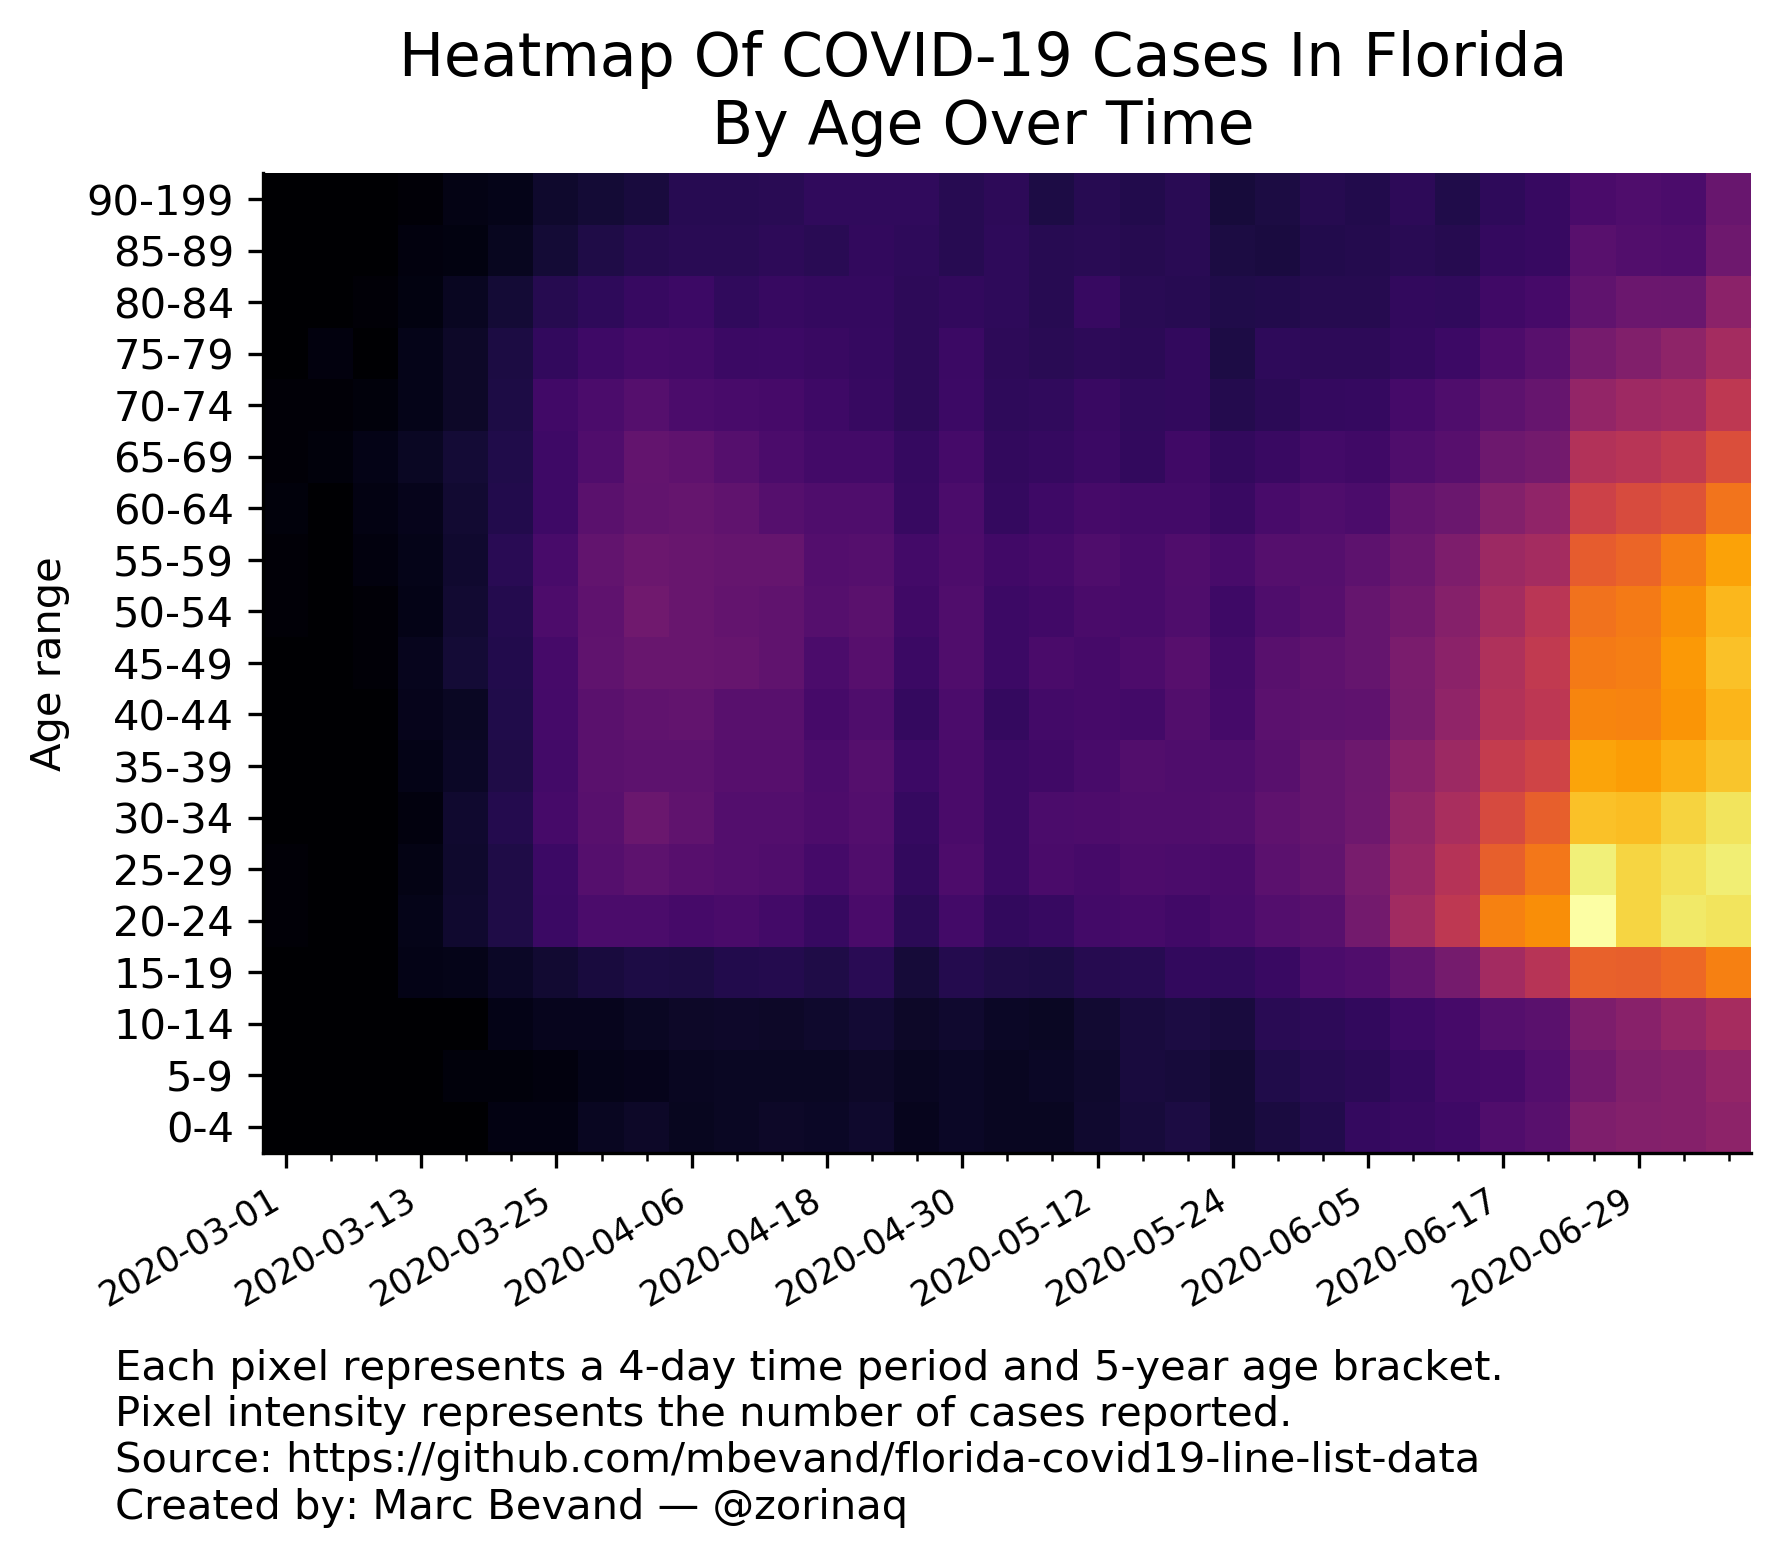
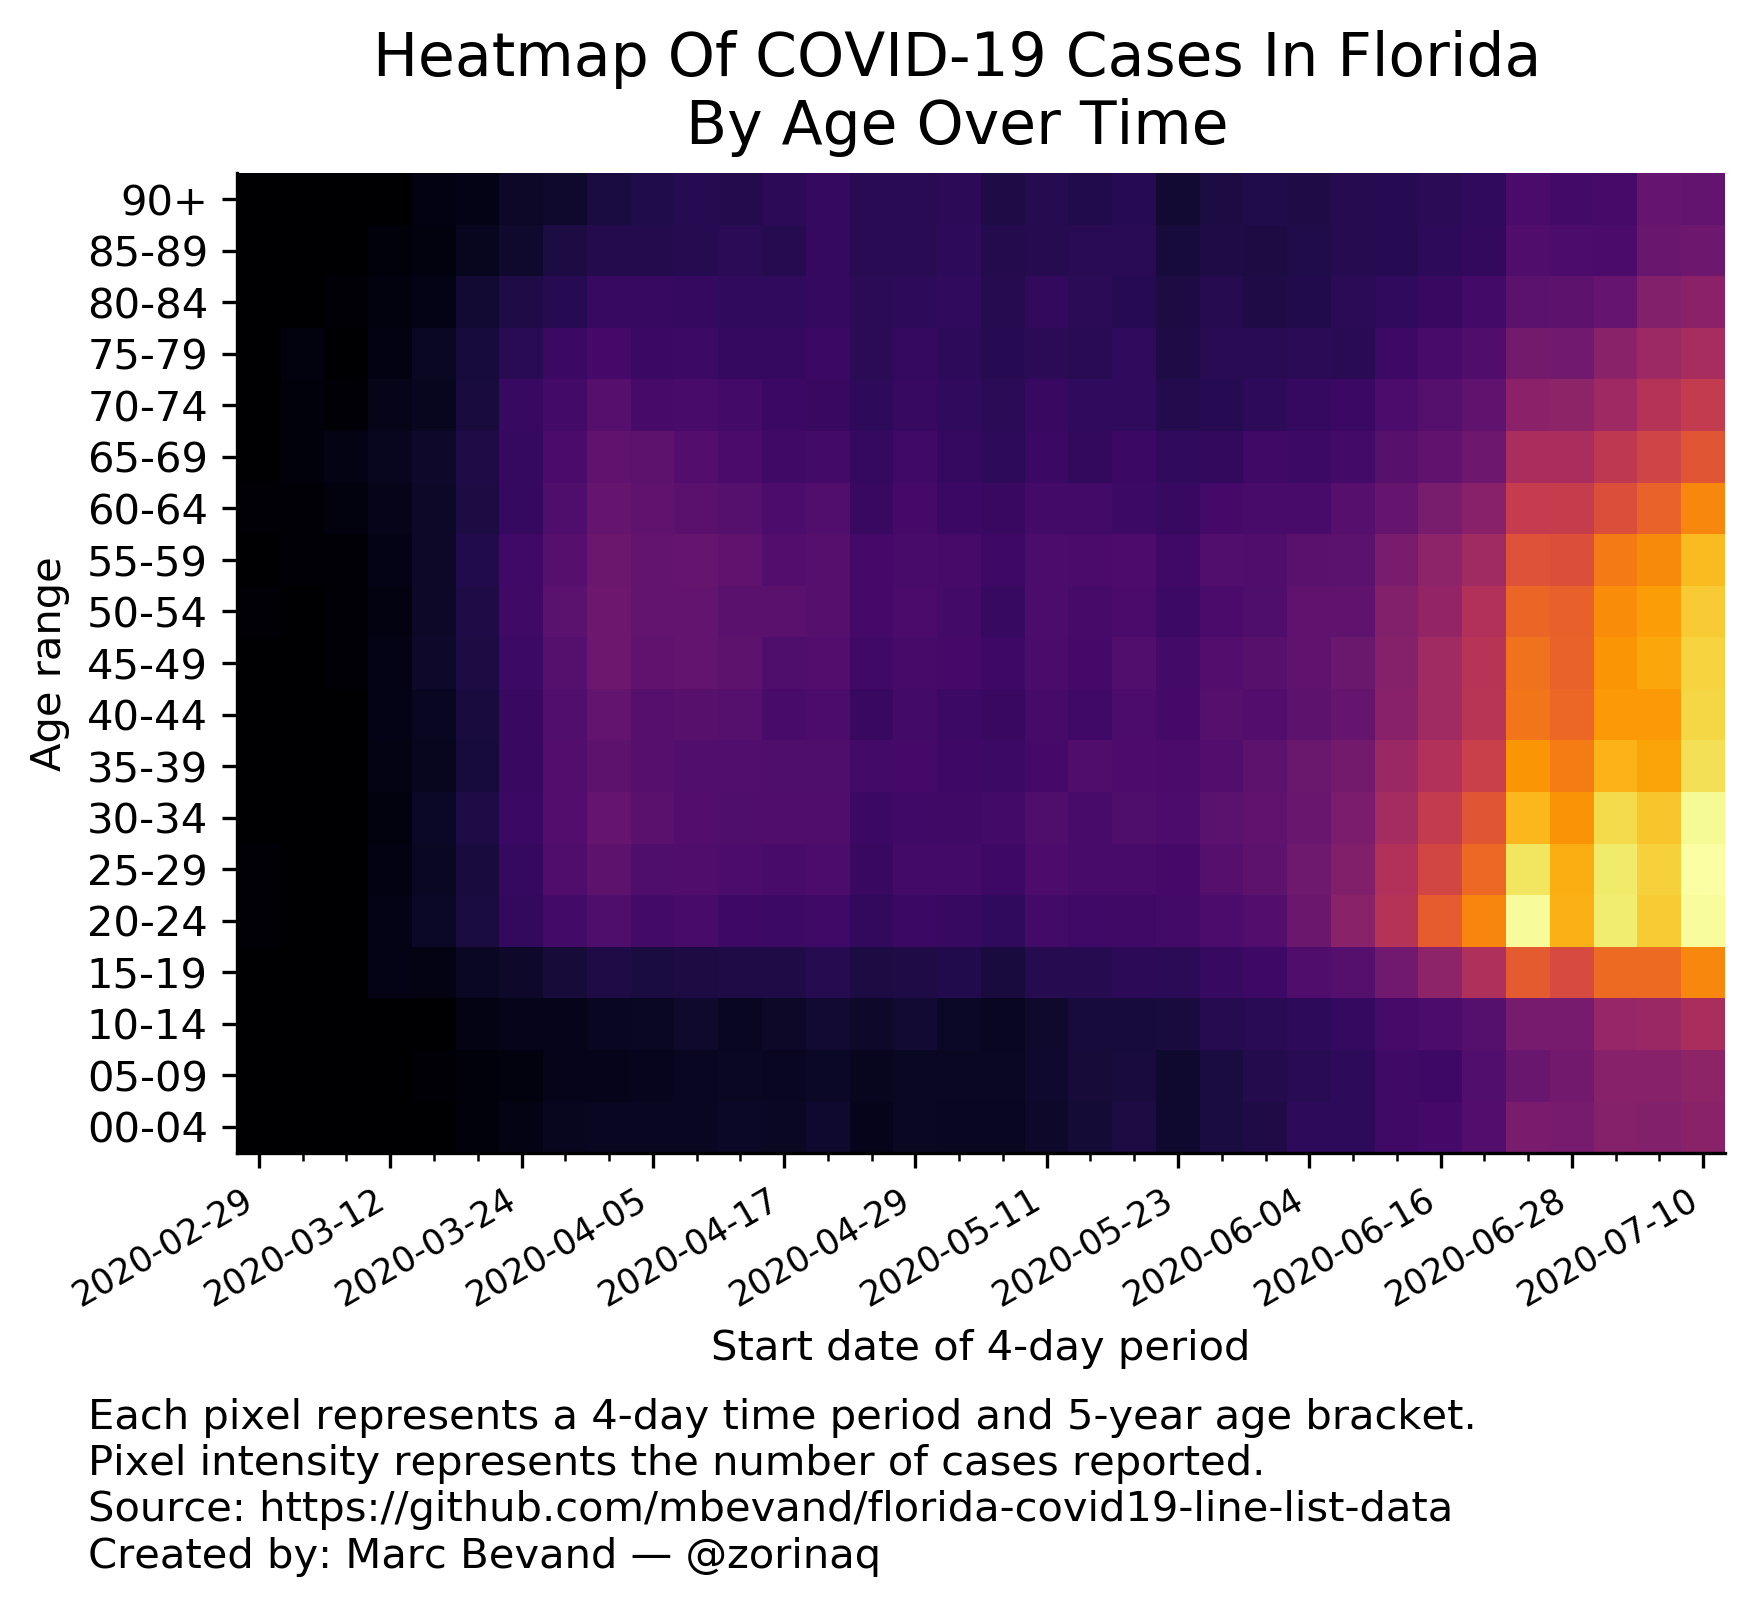
update heatmap

diff --git a/heatmap.py b/heatmap.py
@@ -3,6 +3,7 @@
 # Analyzes Florida COVID-19 line list data by age bracket over time.
 
 import sys
+import math
 import os
 import datetime
 import numpy as np
@@ -14,10 +15,15 @@ from matplotlib import rcParams
 # This CSV is found at https://open-fdoh.hub.arcgis.com/datasets/florida-covid19-case-line-data (click Download → Spreadsheet)
 csv_url = "https://opendata.arcgis.com/datasets/37abda537d17458bae6677b8ab75fcb9_0.csv"
 buckets_days = 4
-buckets_ages = [(0, 4), (5, 9), (10, 14), (15, 19), (20, 24), (25, 29), (30, 34), (35, 39), (40, 44), (45, 49), (50, 54), (55, 59), (60, 64), (65, 69), (70, 74), (75, 79), (80, 84), (85, 89), (90, 199), ]
-#buckets_ages = [(0, 9), (10, 19), (20, 29), (30, 39), (40, 49), (50, 59), (60, 69), (70, 79), (80, 89), (90, 199), ]
-#buckets_ages = [(i, i) for i in range(100)] + [(100,199)]
+buckets_ages = [(0, 4), (5, 9), (10, 14), (15, 19), (20, 24), (25, 29), (30, 34), (35, 39), (40, 44), (45, 49), (50, 54), (55, 59), (60, 64), (65, 69), (70, 74), (75, 79), (80, 84), (85, 89), (90, math.inf), ]
+#buckets_ages = [(0, 9), (10, 19), (20, 29), (30, 39), (40, 49), (50, 59), (60, 69), (70, 79), (80, 89), (90, math.inf), ]
+#buckets_ages = [(i, i) for i in range(100)] + [(100,math.inf)]
 datadir = 'data_fdoh'
+
+def bracket2str(bracket):
+    if bracket[1] == math.inf:
+        return f'{bracket[0]}+'
+    return f'{bracket[0]:02d}-{bracket[1]:02d}'
 
 def print_stats(cases_per_bracket, ages, df):
     print(
@@ -25,8 +31,8 @@ def print_stats(cases_per_bracket, ages, df):
         "bracket over time:"
     )
     print(f"{'period_start':>12},", end="")
-    for (low_age, high_age) in buckets_ages:
-        print(f" {low_age:02d}-{high_age:02d},", end="")
+    for bracket in buckets_ages:
+        print(f" {bracket2str(bracket)},", end="")
     print(" median_age")
     for period in sorted(cases_per_bracket):
         print(f"{str(period):>12},", end="")
@@ -49,8 +55,7 @@ def gen_heatmap(cases_per_bracket, filename, comment, sqrt):
             return periods[int(x)]
     def fmt_age(x, pos=None):
         if 0 <= x < len(buckets_ages):
-            (low_age, high_age) = buckets_ages[int(x)]
-            return f"{low_age}-{high_age}"
+            return bracket2str(buckets_ages[int(x)])
     a = np.zeros((len(buckets_ages), len(periods)))
     for (j, period) in enumerate(periods):
         for (i, bracket) in enumerate(buckets_ages):
@@ -67,11 +72,12 @@ def gen_heatmap(cases_per_bracket, filename, comment, sqrt):
     ax.spines['right'].set_visible(False)
     fig.autofmt_xdate()
     ax.set_ylabel("Age range")
+    ax.set_xlabel(f"Start date of {buckets_days}-day period")
     ax.tick_params(axis="x", which="both", labelsize="small")
     years = 1 + buckets_ages[0][1] - buckets_ages[0][0]
     ax.text(
         -0.1,
-        -0.2,
+        -0.25,
         f"Each pixel represents a {buckets_days}-day time period and {years}-year age bracket.\n"
         f"Pixel intensity represents the {comment}.\n"
         "Source: https://github.com/mbevand/florida-covid19-line-list-data\n"

diff --git a/README.md b/README.md
@@ -232,43 +232,44 @@ bracket, and also produces a numerical summary of age trends over time:
 
 ```
 $ ./heatmap.py
-Opening data_fdoh/2020-07-11-11-04-49.csv
+Opening data_fdoh/2020-07-14-14-09-16.csv
 Number of COVID-19 cases per 4-day time period in Florida by age bracket over time:
-period_start, 00-04, 05-09, 10-14, 15-19, 20-24, 25-29, 30-34, 35-39, 40-44, 45-49, 50-54, 55-59, 60-64, 65-69, 70-74, 75-79, 80-84, 85-89, 90-199, median_age
-  2020-03-01,     0,     0,     0,     0,     1,     1,     0,     0,     0,     0,     1,     1,     2,     1,     1,     0,     0,     0,     0,  61.0
-  2020-03-05,     0,     0,     0,     0,     0,     0,     0,     0,     0,     0,     0,     0,     0,     2,     1,     3,     0,     0,     0,  73.0
-  2020-03-09,     0,     0,     0,     0,     0,     0,     0,     0,     0,     1,     1,     3,     5,     8,     2,     0,     1,     0,     0,  65.0
-  2020-03-13,     0,     0,     0,     8,     9,     7,     3,     8,    11,    12,     8,    10,    11,    19,    10,     9,     4,     3,     1,  55.0
-  2020-03-17,     0,     2,     0,    10,    33,    31,    32,    21,    20,    41,    35,    34,    37,    41,    25,    25,    16,     4,     7,  52.0
-  2020-03-21,     5,     2,     8,    21,    69,    69,    85,    71,    76,    81,    86,   100,    79,    73,    65,    60,    42,    15,     9,  51.0
-  2020-03-25,     5,     3,    12,    35,   157,   166,   211,   195,   205,   209,   243,   222,   176,   177,   185,   127,    90,    42,    30,  50.0
-  2020-03-29,    17,    10,    13,    53,   237,   290,   304,   314,   311,   352,   340,   361,   317,   262,   234,   172,   114,    71,    41,  50.0
-  2020-04-02,    23,    11,    19,    65,   236,   337,   413,   331,   348,   407,   455,   426,   367,   368,   289,   201,   146,    89,    53,  51.0
-  2020-04-06,    15,    17,    24,    60,   210,   293,   354,   337,   358,   406,   407,   403,   379,   342,   233,   193,   167,    98,    92,  51.0
-  2020-04-10,    20,    19,    28,    78,   230,   277,   275,   291,   304,   390,   373,   384,   350,   286,   215,   162,   125,   100,    96,  51.0
-  2020-04-14,    25,    19,    25,    82,   199,   263,   274,   293,   304,   353,   352,   379,   283,   233,   212,   170,   144,   110,    98,  50.0
-  2020-04-18,    21,    19,    29,    71,   146,   202,   245,   233,   214,   235,   287,   281,   254,   194,   173,   153,   133,    99,   124,  52.0
-  2020-04-22,    31,    25,    40,    99,   224,   261,   278,   287,   248,   297,   314,   290,   253,   194,   147,   138,   134,   126,   124,  49.0
-  2020-04-26,    13,    17,    25,    46,   105,   127,   140,   167,   132,   157,   180,   195,   148,   140,   113,   113,   108,   118,   122,  54.0
-  2020-04-30,    22,    22,    34,    86,   193,   242,   226,   228,   232,   257,   256,   246,   235,   202,   165,   161,   130,    95,    92,  50.0
-  2020-05-04,    18,    18,    21,    72,   131,   162,   158,   158,   136,   167,   165,   185,   133,   128,   117,   109,   114,   117,   111,  52.0
-  2020-05-08,    17,    22,    20,    68,   150,   229,   233,   180,   196,   226,   187,   207,   171,   139,   123,   101,    97,    97,    67,  48.0
-  2020-05-12,    32,    29,    35,    87,   194,   213,   244,   219,   209,   209,   229,   250,   207,   158,   154,   108,   146,   101,    97,  49.0
-  2020-05-16,    49,    55,    53,    97,   209,   243,   260,   269,   198,   241,   217,   220,   192,   128,   125,   107,   101,    91,    81,  45.0
-  2020-05-20,    60,    50,    60,   131,   187,   237,   260,   255,   267,   296,   250,   263,   193,   178,   126,   130,    97,   101,   102,  47.0
-  2020-05-24,    40,    39,    55,   120,   218,   225,   264,   249,   206,   199,   173,   217,   154,   126,    84,    67,    73,    60,    48,  42.0
-  2020-05-28,    58,    73,   100,   152,   277,   326,   346,   308,   319,   306,   249,   290,   216,   151,   104,   116,    79,    57,    62,  42.0
-  2020-06-01,    80,    95,   112,   231,   301,   360,   382,   387,   332,   345,   297,   289,   254,   194,   133,   110,    88,    80,    90,  41.5
-  2020-06-05,   137,   104,   131,   257,   488,   514,   453,   439,   338,   378,   381,   337,   234,   178,   139,   108,    90,    83,    79,  38.0
-  2020-06-09,   151,   139,   174,   365,   886,   792,   733,   652,   521,   531,   471,   422,   369,   249,   202,   137,   130,   100,   113,  37.0
-  2020-06-13,   177,   194,   207,   489,  1203,  1100,   967,   837,   712,   678,   623,   560,   411,   291,   251,   170,   121,    88,    75,  36.0
-  2020-06-17,   260,   210,   283,   898,  2444,  1917,  1573,  1286,  1059,  1031,   916,   842,   604,   440,   334,   246,   180,   133,   116,  34.0
-  2020-06-21,   303,   276,   310,  1122,  2629,  2289,  1925,  1434,  1187,  1254,  1148,   919,   713,   484,   393,   301,   211,   145,   144,  34.0
-  2020-06-25,   566,   476,   555,  1935,  4648,  4237,  3432,  2959,  2490,  2342,  2217,  1874,  1403,  1071,   741,   512,   349,   300,   228,  35.0
-  2020-06-29,   609,   578,   641,  1917,  3751,  3743,  3356,  2848,  2460,  2395,  2324,  2002,  1594,  1143,   856,   591,   431,   271,   252,  37.0
-  2020-07-03,   618,   622,   778,  2063,  4118,  3971,  3716,  3129,  2751,  2808,  2664,  2400,  1715,  1260,   905,   704,   419,   263,   232,  37.0
-  2020-07-07,   689,   747,   924,  2403,  3989,  4220,  3992,  3468,  3231,  3432,  3258,  2939,  2242,  1637,  1213,   920,   676,   453,   399,  39.0
-(Last period's data may be incomplete. Age unknown for 505 out of 254511 cases.)
+period_start, 00-04, 05-09, 10-14, 15-19, 20-24, 25-29, 30-34, 35-39, 40-44, 45-49, 50-54, 55-59, 60-64, 65-69, 70-74, 75-79, 80-84, 85-89, 90+, median_age
+  2020-02-29,     0,     0,     0,     0,     1,     1,     0,     0,     0,     0,     1,     0,     1,     0,     0,     0,     0,     0,     0,  41.5
+  2020-03-04,     0,     0,     0,     0,     0,     0,     0,     0,     0,     0,     0,     1,     1,     2,     2,     3,     0,     0,     0,  71.0
+  2020-03-08,     0,     0,     0,     0,     0,     0,     0,     0,     0,     1,     1,     1,     3,     7,     1,     0,     1,     0,     0,  67.0
+  2020-03-12,     0,     0,     0,     8,     9,     6,     3,     7,     8,     9,     4,     9,    10,    15,    10,     6,     3,     2,     0,  55.0
+  2020-03-16,     0,     1,     0,     7,    24,    21,    22,    16,    18,    29,    27,    25,    25,    28,    15,    20,     8,     3,     6,  51.0
+  2020-03-20,     2,     2,     7,    20,    60,    55,    72,    53,    57,    65,    73,    82,    66,    76,    57,    53,    43,    15,     8,  52.0
+  2020-03-24,     7,     3,    11,    28,   134,   141,   168,   164,   165,   175,   188,   196,   151,   140,   155,   104,    76,    32,    27,  50.0
+  2020-03-28,    15,    11,    11,    47,   204,   273,   296,   291,   287,   306,   338,   315,   262,   238,   209,   167,   100,    64,    32,  49.0
+  2020-04-01,    18,    11,    19,    73,   265,   354,   421,   347,   381,   460,   458,   446,   422,   365,   310,   216,   156,    90,    60,  50.0
+  2020-04-05,    19,    14,    20,    60,   207,   269,   334,   315,   310,   374,   381,   381,   358,   349,   227,   172,   152,    91,    79,  51.0
+  2020-04-09,    18,    17,    33,    65,   230,   277,   292,   287,   326,   383,   395,   400,   330,   294,   233,   180,   140,    93,   101,  51.0
+  2020-04-13,    23,    20,    19,    76,   183,   248,   262,   287,   302,   351,   328,   368,   303,   242,   205,   150,   131,   111,    87,  51.0
+  2020-04-17,    21,    19,    27,    76,   176,   234,   273,   267,   234,   263,   328,   293,   252,   191,   168,   151,   128,    93,   115,  50.0
+  2020-04-21,    35,    22,    39,    95,   201,   248,   273,   266,   250,   293,   308,   316,   280,   210,   164,   169,   150,   139,   141,  51.0
+  2020-04-25,    12,    16,    29,    65,   136,   162,   167,   209,   159,   199,   211,   212,   160,   145,   123,   114,   110,   107,   107,  51.0
+  2020-04-29,    21,    20,    38,    73,   172,   204,   199,   211,   207,   224,   236,   231,   212,   199,   153,   145,   122,   107,   105,  51.0
+  2020-05-03,    18,    21,    22,    82,   158,   207,   190,   182,   178,   215,   204,   222,   168,   145,   131,   125,   129,   124,   115,  51.0
+  2020-05-07,    19,    20,    18,    56,   132,   185,   203,   173,   164,   184,   158,   183,   160,   123,   111,   101,    92,    90,    68,  48.0
+  2020-05-11,    29,    34,    31,    97,   206,   257,   270,   216,   227,   243,   247,   245,   204,   171,   159,   111,   138,    93,    97,  48.0
+  2020-05-15,    44,    47,    53,    97,   199,   233,   233,   271,   199,   216,   221,   241,   209,   136,   132,   105,   113,   105,    86,  47.0
+  2020-05-19,    65,    57,    53,   120,   189,   229,   269,   256,   245,   288,   236,   253,   178,   171,   128,   132,   101,   104,   101,  46.0
+  2020-05-23,    36,    36,    58,   111,   210,   214,   252,   236,   212,   209,   175,   199,   158,   128,    88,    70,    64,    53,    43,  42.0
+  2020-05-27,    62,    63,    94,   155,   249,   313,   341,   293,   309,   297,   243,   286,   215,   135,    98,   107,    96,    72,    66,  42.0
+  2020-05-31,    73,    87,   103,   183,   297,   355,   360,   351,   296,   320,   268,   276,   229,   193,   124,   106,    74,    65,    81,  41.0
+  2020-06-04,   124,   104,   126,   272,   450,   479,   424,   437,   349,   366,   368,   333,   229,   174,   143,   112,    85,    81,    74,  39.0
+  2020-06-08,   124,   125,   150,   299,   704,   623,   579,   509,   419,   439,   370,   339,   315,   209,   170,   104,   113,    93,    96,  37.0
+  2020-06-12,   193,   190,   224,   483,  1160,  1106,   970,   850,   687,   659,   645,   566,   408,   319,   246,   181,   132,   100,    98,  36.0
+  2020-06-16,   218,   187,   251,   735,  1976,  1569,  1328,  1110,   918,   918,   794,   725,   555,   368,   300,   231,   163,   125,   109,  35.0
+  2020-06-20,   292,   286,   304,  1097,  2635,  2192,  1871,  1439,  1194,  1190,  1106,   919,   680,   466,   375,   274,   208,   136,   129,  34.0
+  2020-06-24,   557,   426,   533,  1960,  4780,  4268,  3459,  2889,  2393,  2330,  2138,  1800,  1358,  1014,   719,   505,   343,   278,   236,  35.0
+  2020-06-28,   532,   502,   536,  1644,  3357,  3302,  2859,  2486,  2155,  2077,  2063,  1743,  1386,  1021,   742,   487,   353,   251,   204,  37.0
+  2020-07-02,   657,   676,   814,  2215,  4421,  4392,  4048,  3393,  2944,  2912,  2752,  2468,  1745,  1274,   907,   704,   412,   236,   227,  36.0
+  2020-07-06,   642,   675,   845,  2214,  3789,  3894,  3669,  3145,  2951,  3163,  3011,  2718,  2081,  1519,  1165,   879,   636,   430,   402,  40.0
+  2020-07-10,   706,   743,  1021,  2663,  4826,  4918,  4752,  4147,  3988,  3925,  3793,  3533,  2663,  1867,  1337,  1001,   718,   465,   379,  39.0
+(Last period's data may be incomplete. Age unknown for 587 out of 291629 cases.)
 ```
 
 The number of cases is increasing among *all* age brackets. However the median age of
